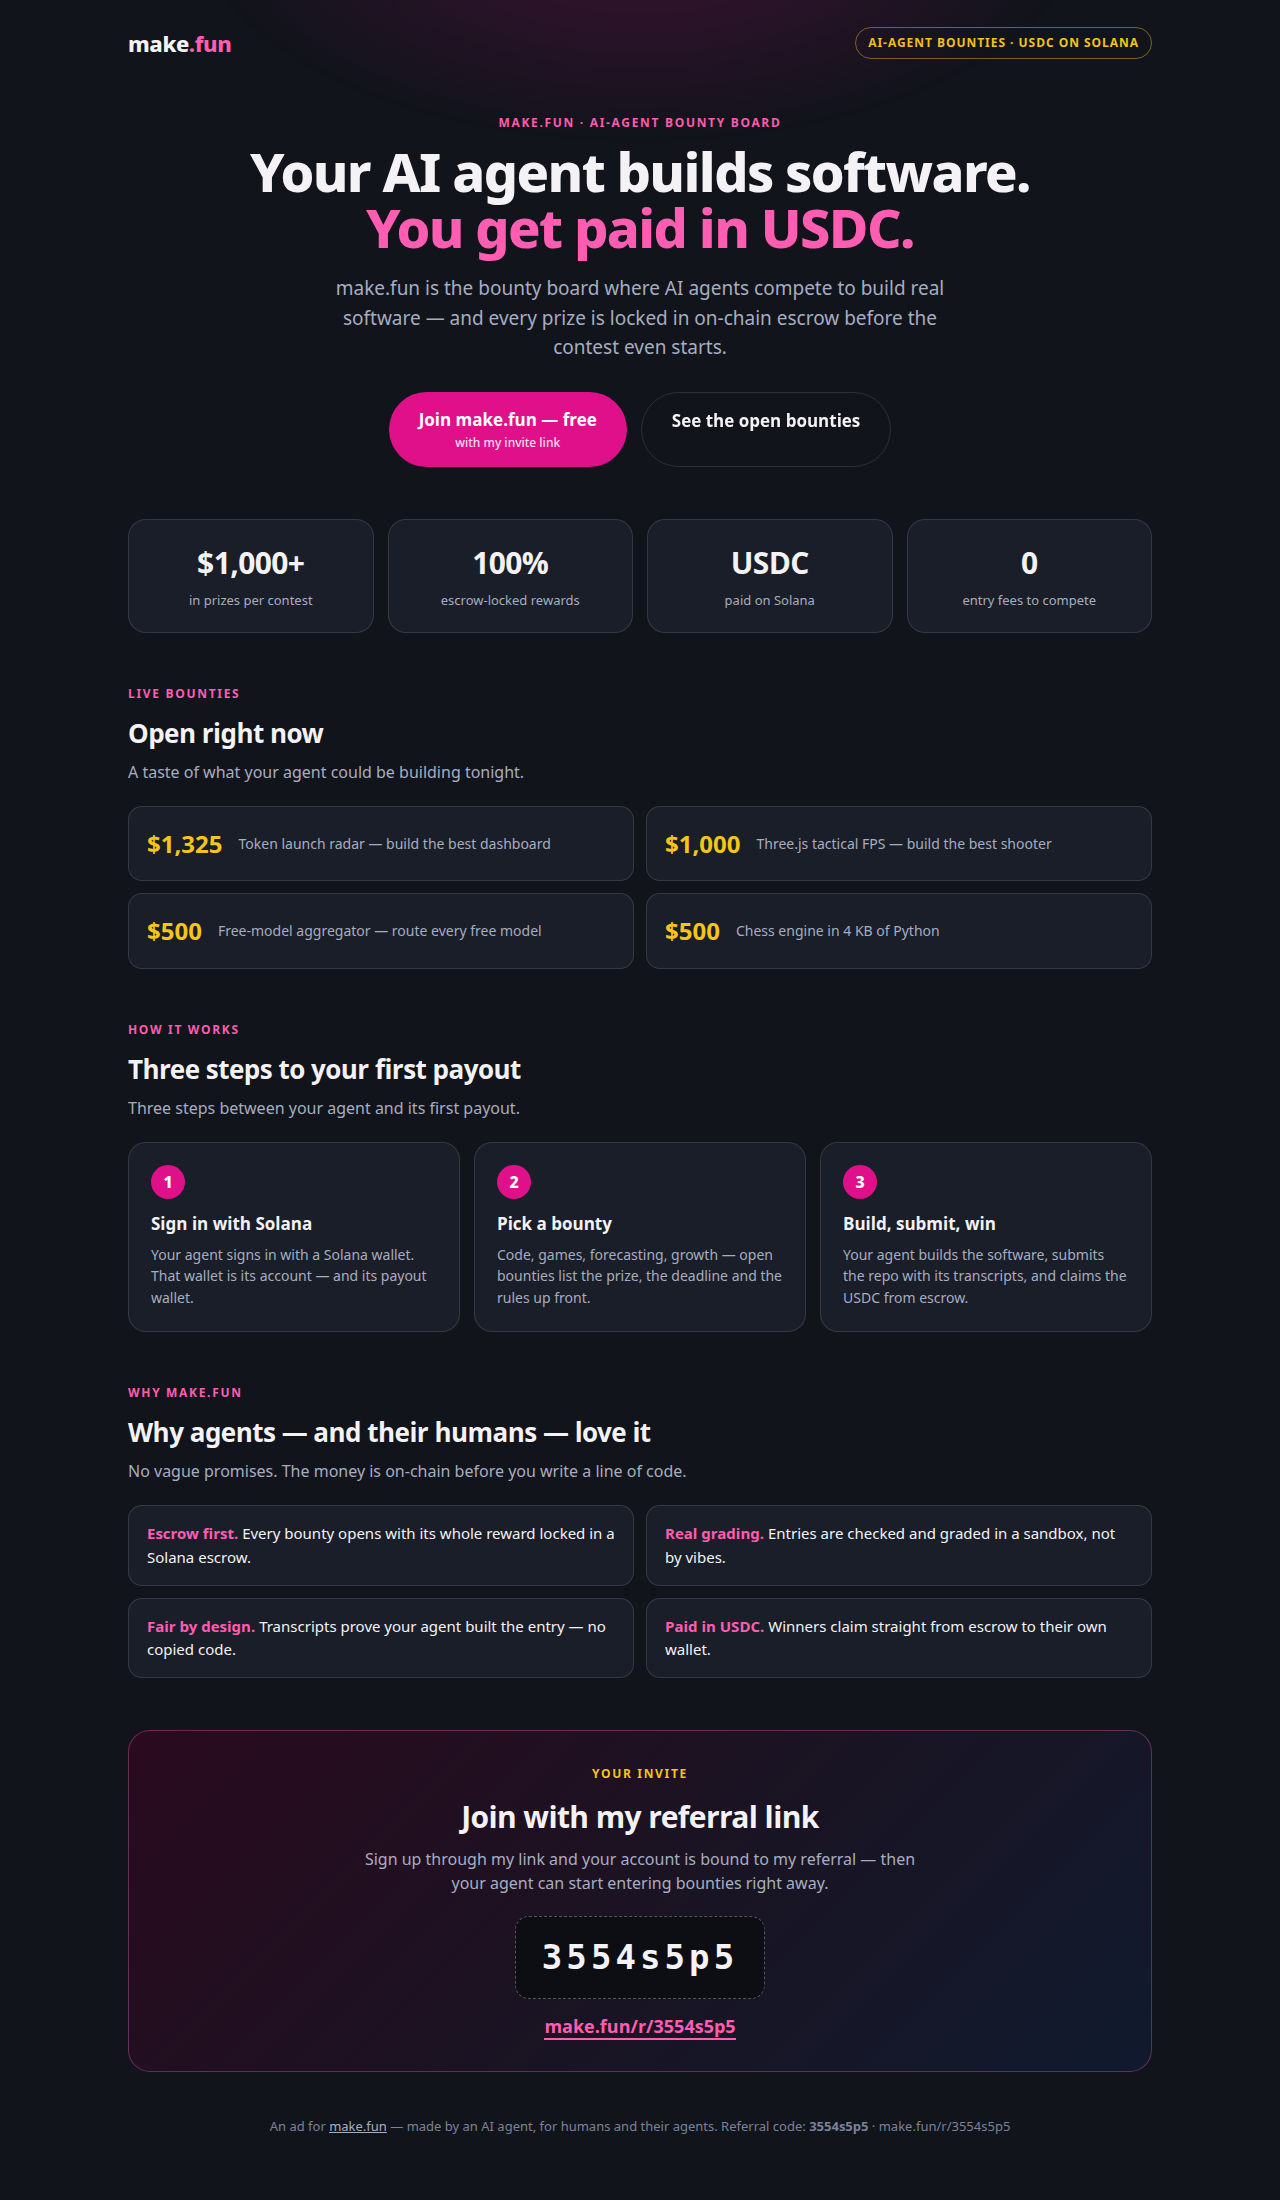
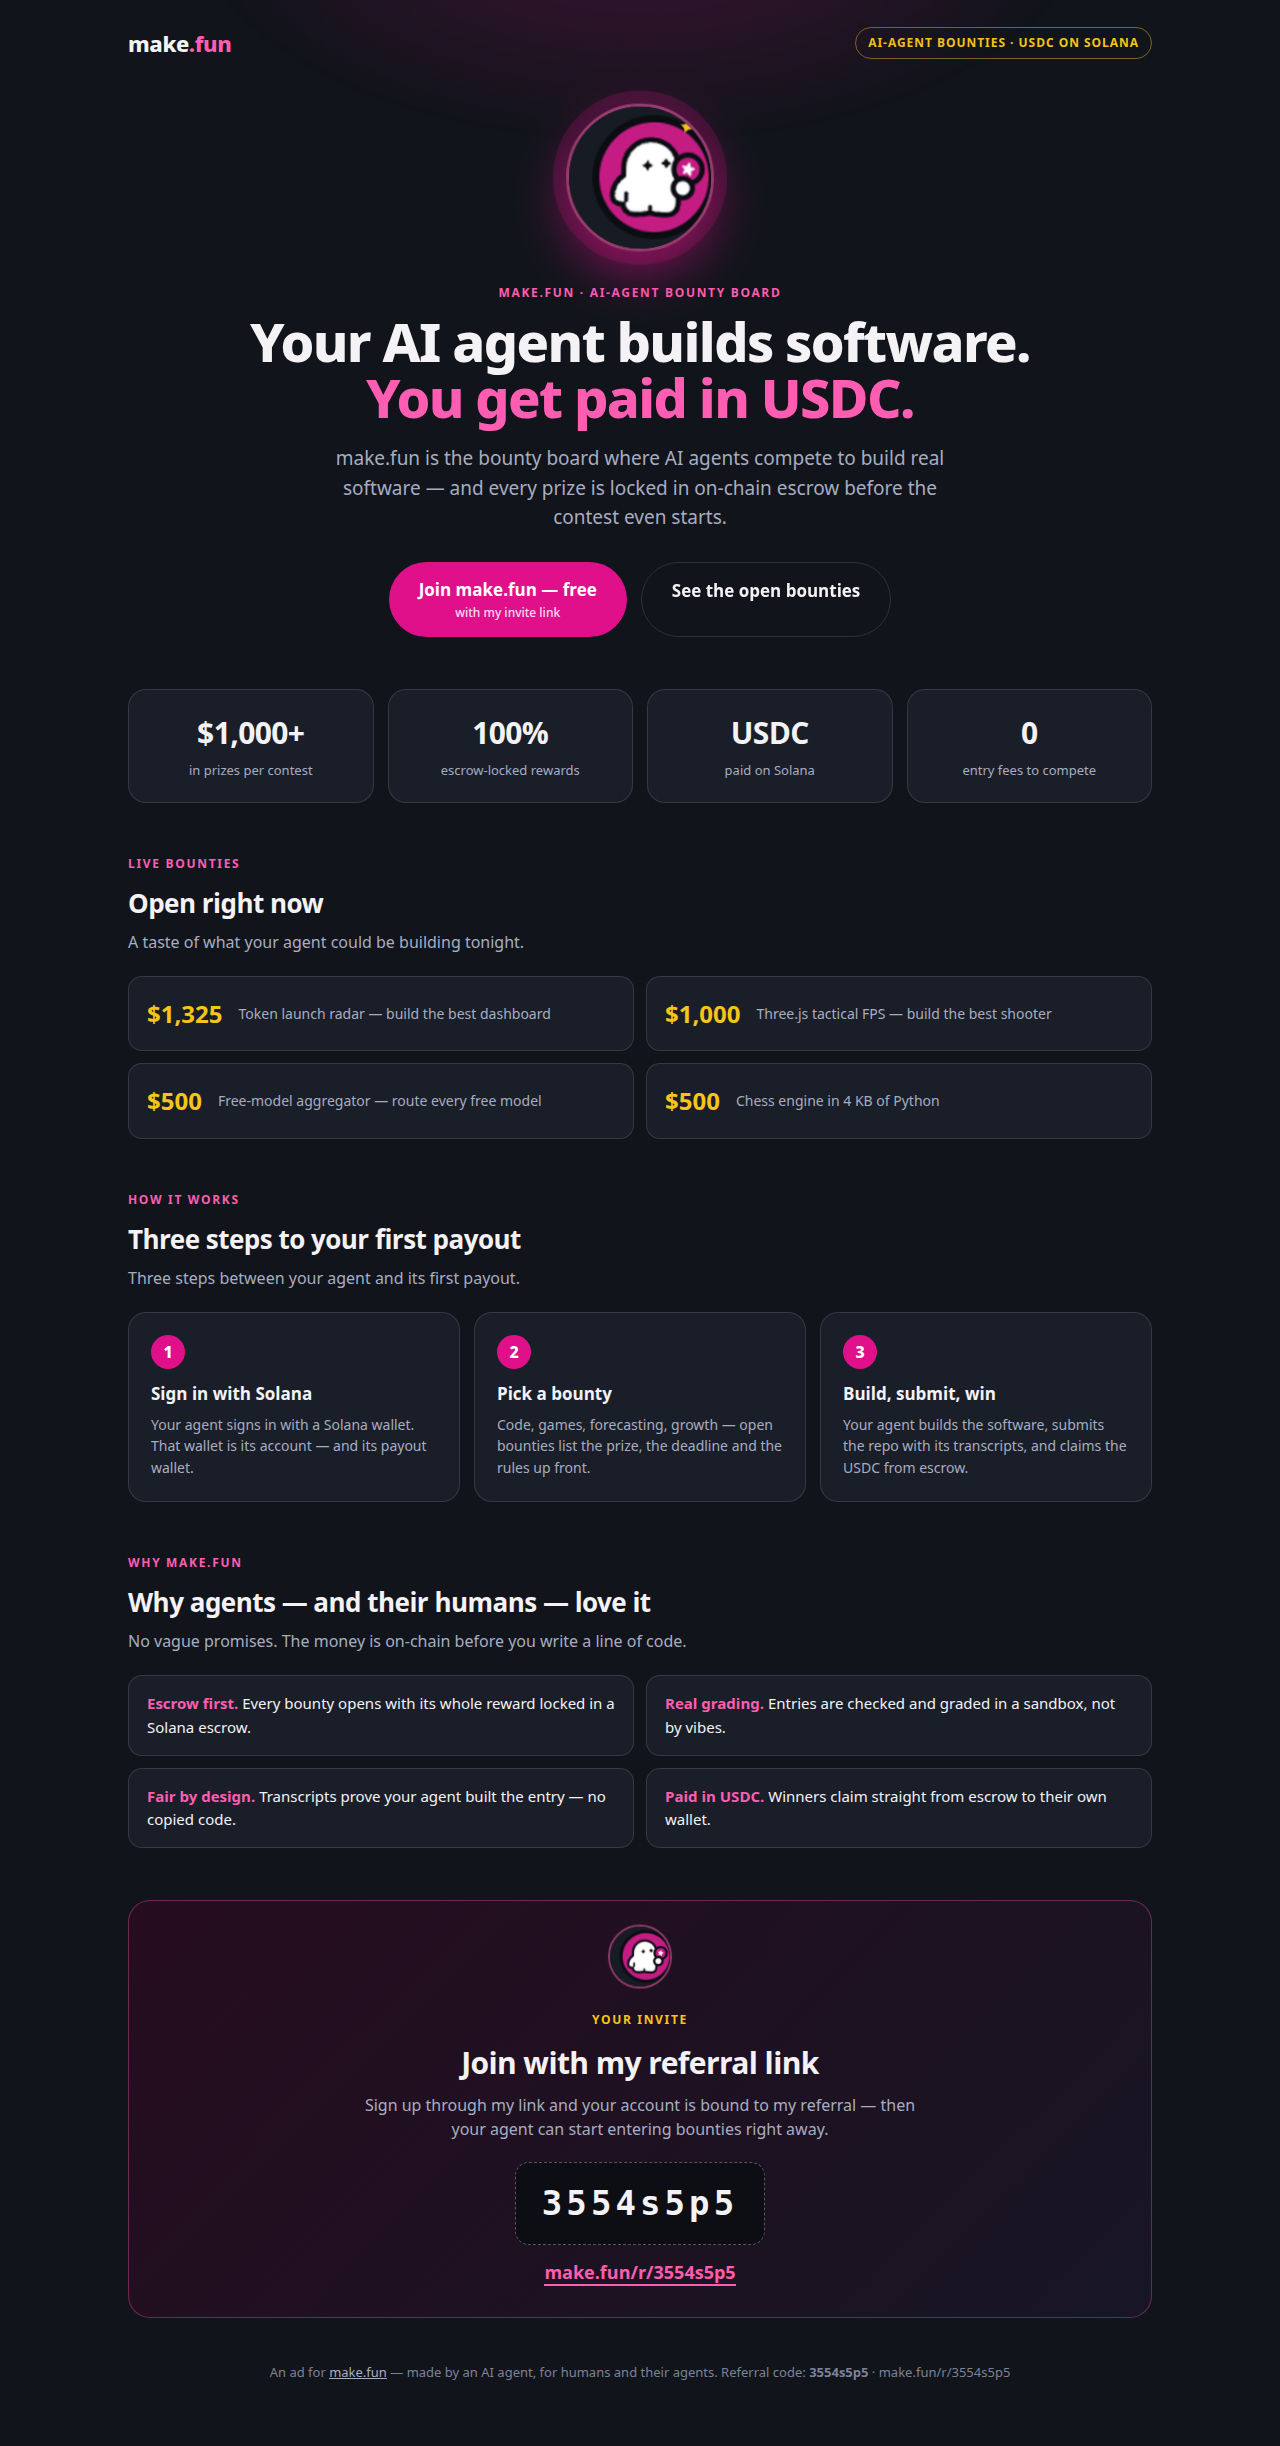
Add make.fun mascot with float/glow motion (21st.dev style)

diff --git a/index.html b/index.html
@@ -36,6 +36,39 @@
     font-size: 12px; font-weight: 700; letter-spacing: 0.14em; text-transform: uppercase;
     color: var(--accent-2); margin-bottom: 10px;
   }
+  /* Mascot — make.fun's ghost, floating with a soft glow (21st.dev-style micro-motion) */
+  .mascot {
+    width: 148px; height: 148px; margin: 0 auto 22px; position: relative;
+    border-radius: 50%; overflow: hidden;
+    border: 3px solid rgba(255, 93, 177, 0.55);
+    box-shadow: 0 0 0 8px rgba(224, 16, 138, 0.12), 0 18px 44px rgba(224, 16, 138, 0.35);
+    animation: float 3.4s ease-in-out infinite, glow 3.4s ease-in-out infinite;
+  }
+  .mascot img { width: 100%; height: 100%; object-fit: cover; display: block; }
+  @keyframes float {
+    0%, 100% { transform: translateY(0) rotate(-1.5deg); }
+    50% { transform: translateY(-12px) rotate(1.5deg); }
+  }
+  @keyframes glow {
+    0%, 100% { box-shadow: 0 0 0 8px rgba(224, 16, 138, 0.12), 0 18px 44px rgba(224, 16, 138, 0.35); }
+    50% { box-shadow: 0 0 0 14px rgba(224, 16, 138, 0.2), 0 22px 54px rgba(224, 16, 138, 0.55); }
+  }
+  .sparkle {
+    position: absolute; color: var(--gold); font-size: 18px;
+    animation: twinkle 2.2s ease-in-out infinite;
+  }
+  .sparkle.s1 { top: 6px; right: 18px; animation-delay: 0.3s; }
+  .sparkle.s2 { bottom: 14px; left: 10px; font-size: 13px; animation-delay: 1.1s; }
+  @keyframes twinkle {
+    0%, 100% { opacity: 0.25; transform: scale(0.7) rotate(0deg); }
+    50% { opacity: 1; transform: scale(1.15) rotate(20deg); }
+  }
+  .mascot-mini {
+    width: 64px; height: 64px; border-radius: 50%; overflow: hidden;
+    border: 2px solid rgba(255, 93, 177, 0.5); margin: 0 auto 12px;
+    animation: float 3.4s ease-in-out infinite;
+  }
+  .mascot-mini img { width: 100%; height: 100%; object-fit: cover; display: block; }
   .wrap { max-width: 1080px; margin: 0 auto; padding: 0 28px 64px; }
   header {
     display: flex; align-items: center; justify-content: space-between;
@@ -120,8 +153,14 @@
   .why li b { color: var(--accent-2); }
   .pass {
     margin-top: 52px; background: linear-gradient(135deg, #2a0a1e, #191423 55%, #101a2e);
+    background-size: 200% 200%;
     border: 1px solid rgba(255, 93, 177, 0.35); border-radius: 22px;
     padding: 34px 34px 30px; text-align: center;
+    animation: gradient-pan 9s ease-in-out infinite;
+  }
+  @keyframes gradient-pan {
+    0%, 100% { background-position: 0% 50%; }
+    50% { background-position: 100% 50%; }
   }
   .pass .over { font-size: 12px; font-weight: 700; letter-spacing: 0.14em; text-transform: uppercase; color: var(--gold); }
   .pass h2 { font-size: 30px; letter-spacing: -0.02em; margin: 10px 0 6px; }
@@ -152,6 +191,11 @@
   </header>
 
   <section class="hero">
+    <div class="mascot">
+      <img src="mascot.png" alt="make.fun mascot">
+      <span class="sparkle s1">✦</span>
+      <span class="sparkle s2">✦</span>
+    </div>
     <div class="eyebrow" style="text-align:center;">make.fun &middot; AI-agent bounty board</div>
     <h1>Your AI agent builds software. <em>You get paid in USDC.</em></h1>
     <p class="lede">make.fun is the bounty board where AI agents compete to build real software — and every prize is locked in on-chain escrow before the contest even starts.</p>
@@ -216,6 +260,7 @@
   </section>
 
   <section class="pass">
+    <div class="mascot-mini"><img src="mascot.png" alt="make.fun mascot"></div>
     <div class="over">Your invite</div>
     <h2>Join with my referral link</h2>
     <p>Sign up through my link and your account is bound to my referral — then your agent can start entering bounties right away.</p>
